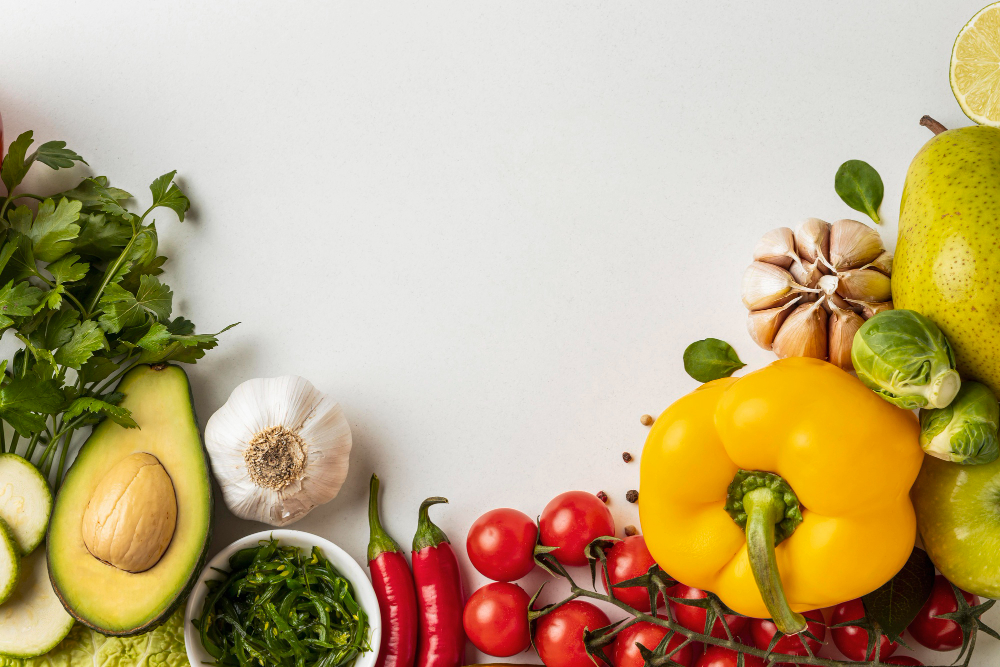
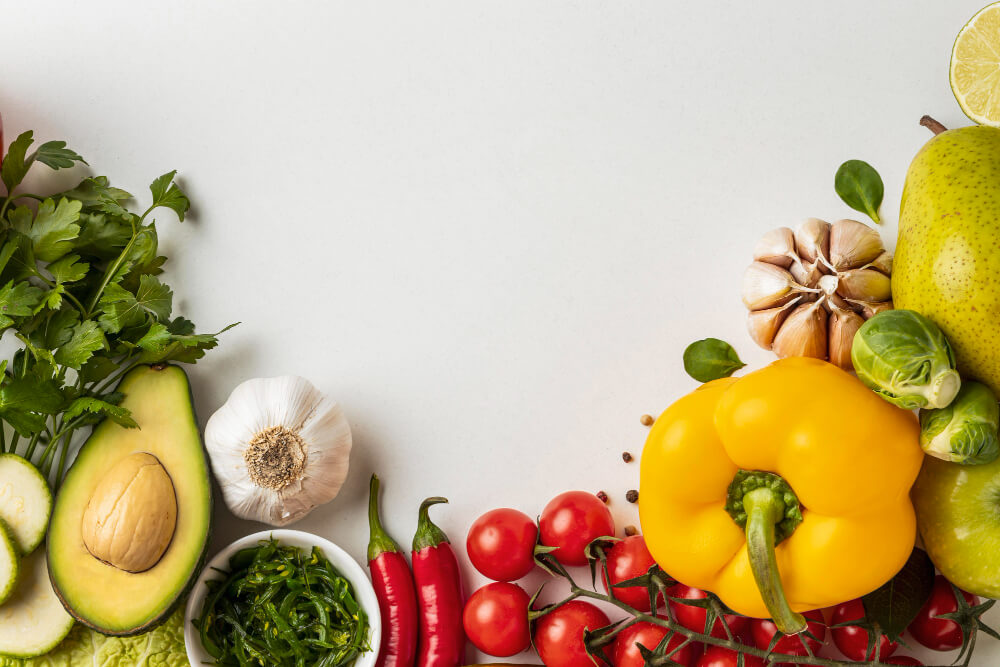
Optimized images

diff --git a/js/controllers/navbarController/navbarController.js b/js/controllers/navbarController/navbarController.js
@@ -36,10 +36,10 @@ export class NavbarController extends Controller {
 
         this.options = ['Inicio', 'Verduras', 'Frutas', 'Entregas'];
         this.icons = [
-            '../assets/icons/home.png',
-            '../assets/icons/verdura.png',
-            '../assets/icons/fruta.png',
-            '../assets/icons/entregas.png'
+            '../assets/icons/home.webp',
+            '../assets/icons/verdura.webp',
+            '../assets/icons/fruta.webp',
+            '../assets/icons/entregas.webp'
         ];
         this.options.forEach((option, index) => {
             const li = this.createMenuItem('li', this.menuList);
@@ -51,9 +51,9 @@ export class NavbarController extends Controller {
         })
 
         document.addEventListener('click', function (event) {
-            let nav = document.querySelector('.nav');
-            let openBtn = document.querySelector('.hamburgerMenu');
-            let closeBtn = document.querySelector('.closeMenu');
+            const nav = document.querySelector('.nav');
+            const openBtn = document.querySelector('.hamburgerMenu');
+            const closeBtn = document.querySelector('.closeMenu');
             if (nav && !nav.contains(event.target) && event.target !== openBtn && event.target !== closeBtn) {
                 this.closeNavbar();
             }
@@ -83,6 +83,6 @@ export class NavbarController extends Controller {
     }
 
     moveFrom() {
-        gsap.from(this.mobileMenu, { x: -40, duration: 1 });
+        gsap.from(this.mobileMenu, { x: -70, duration: 0.5 });
     }
 }

diff --git a/js/controllers/UserPageController/userPageView.js b/js/controllers/UserPageController/userPageView.js
@@ -18,17 +18,17 @@ export class UserPageView extends ViewForController {
         this.ctaThree = div(this.callToActions, { className: 'benefitOption' });
 
         const benefitIconOne = document.createElement('img');
-        benefitIconOne.setAttribute('src', '../assets/icons/alimentos-organicos.png');
+        benefitIconOne.setAttribute('src', '../assets/icons/alimentos-organicos.webp');
         benefitIconOne.className = 'benefitIcon';
         this.ctaOne.appendChild(benefitIconOne);
 
         const benefitIconTwo = document.createElement('img');
-        benefitIconTwo.setAttribute('src', '../assets/icons/nota.png');
+        benefitIconTwo.setAttribute('src', '../assets/icons/nota.webp');
         benefitIconTwo.className = 'benefitIcon';
         this.ctaTwo.appendChild(benefitIconTwo);
 
         const benefitIconThree = document.createElement('img');
-        benefitIconThree.setAttribute('src', '../assets/icons/delivery.png');
+        benefitIconThree.setAttribute('src', '../assets/icons/delivery.webp');
         benefitIconThree.className = 'benefitIcon';
         this.ctaThree.appendChild(benefitIconThree);
 

diff --git a/index.html b/index.html
@@ -9,7 +9,7 @@
         <title>VERDUNOVA</title>
         <script type="module" src="js/main.js"></script>
         <script src="js/libraries/gsap.min.js"></script>
-        <link rel="icon" href="assets/icons/favicon.ico">
+        <link rel="icon" href="assets/icons/favicon.webp">
         <link rel="preconnect" href="https://fonts.googleapis.com">
         <link rel="preconnect" href="https://fonts.gstatic.com" crossorigin>
         <link href="https://fonts.googleapis.com/css2?family=Mulish:wght@200..1000&display=swap" rel="stylesheet">
